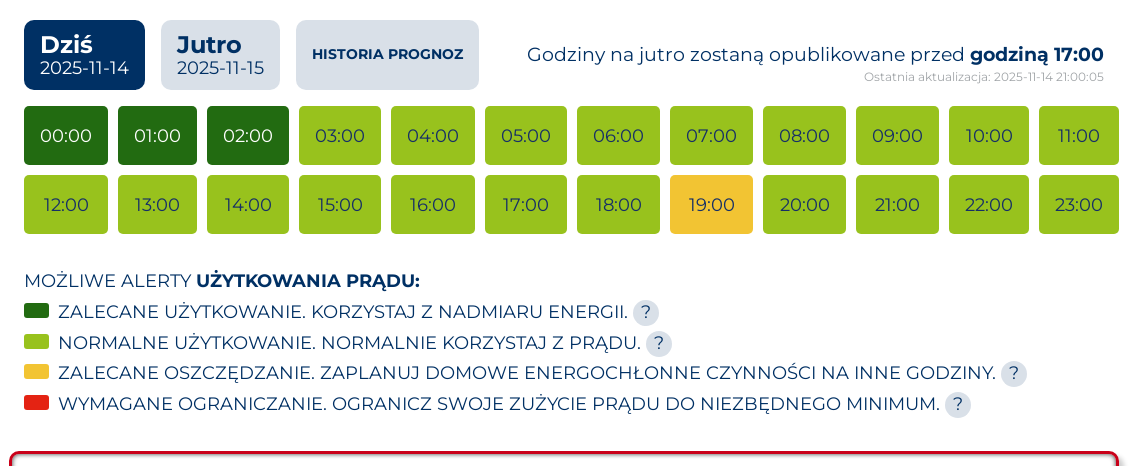
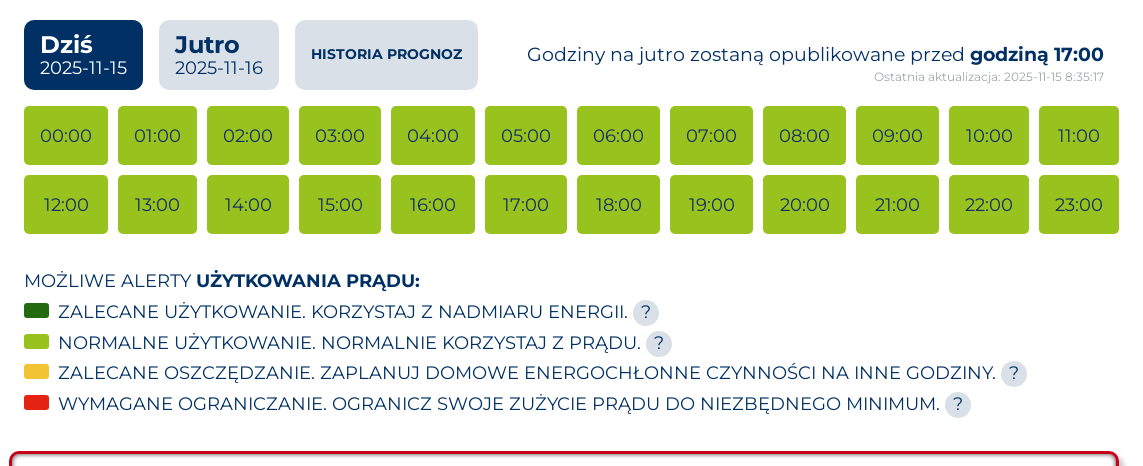
site: update 2025-11-15 08:35 UTC

diff --git a/site/ceny_rdn_dystr_today.html b/site/ceny_rdn_dystr_today.html
@@ -54,16 +54,16 @@
   </a>
 </div>
 
-<section class="hero"><div class="kicker">Dane</div><h1>Raporty — 2025-11-14 22:00:16</h1></section>
+<section class="hero"><div class="kicker">Dane</div><h1>Raporty — 2025-11-15 09:35:26</h1></section>
 
 <section class="content">
-  <h2>2025-11-14 — Sumaryczne ceny energii brutto (energia+dystrybucja)</h2>
+  <h2>2025-11-15 — Sumaryczne ceny energii brutto (energia+dystrybucja)</h2>
 
   <div class="legend">
-    <span class="chip"><span class="box a"></span>&nbsp;<strong>a</strong> avg: 0,539 PLN/kWh</span>
-    <span class="chip"><span class="box b"></span>&nbsp;<strong>b</strong> avg: 0,631 PLN/kWh</span>
-    <span class="chip"><span class="box c"></span>&nbsp;<strong>c</strong> avg: 0,762 PLN/kWh</span>
-    <span class="chip"><span class="box d"></span>&nbsp;<strong>d</strong> avg: 1,141 PLN/kWh</span>
+    <span class="chip"><span class="box a"></span>&nbsp;<strong>a</strong> avg: 0,637 PLN/kWh</span>
+    <span class="chip"><span class="box b"></span>&nbsp;<strong>b</strong> avg: 0,651 PLN/kWh</span>
+    <span class="chip"><span class="box c"></span>&nbsp;<strong>c</strong> avg: 0,691 PLN/kWh</span>
+    <span class="chip"><span class="box d"></span>&nbsp;<strong>d</strong> avg: 0,875 PLN/kWh</span>
   </div>
 
   <div class="table-wrap">
@@ -71,113 +71,113 @@
       <colgroup><col class="col-start"><col class="col-end"><col class="col-price"><col class="col-cat"></colgroup>
       <thead><tr><th>Start</th><th>Koniec</th><th>Cena [PLN/kWh]</th><th>Wsk.</th></tr></thead>
       <tbody>
-          <tr class="cat-a"><td>00:00</td><td>00:15</td><td>0,524</td><td>a</td></tr>
-          <tr class="cat-a"><td>00:15</td><td>00:30</td><td>0,506</td><td>a</td></tr>
-          <tr class="cat-a"><td>00:30</td><td>00:45</td><td>0,542</td><td>a</td></tr>
-          <tr class="cat-a"><td>00:45</td><td>01:00</td><td>0,538</td><td>a</td></tr>
-          <tr class="cat-a"><td>01:00</td><td>01:15</td><td>0,527</td><td>a</td></tr>
-          <tr class="cat-a"><td>01:15</td><td>01:30</td><td>0,506</td><td>a</td></tr>
-          <tr class="cat-a"><td>01:30</td><td>01:45</td><td>0,540</td><td>a</td></tr>
-          <tr class="cat-a"><td>01:45</td><td>02:00</td><td>0,522</td><td>a</td></tr>
-          <tr class="cat-a"><td>02:00</td><td>02:15</td><td>0,542</td><td>a</td></tr>
-          <tr class="cat-a"><td>02:15</td><td>02:30</td><td>0,535</td><td>a</td></tr>
-          <tr class="cat-a"><td>02:30</td><td>02:45</td><td>0,537</td><td>a</td></tr>
-          <tr class="cat-a"><td>02:45</td><td>03:00</td><td>0,498</td><td>a</td></tr>
-          <tr class="cat-a"><td>03:00</td><td>03:15</td><td>0,572</td><td>a</td></tr>
-          <tr class="cat-a"><td>03:15</td><td>03:30</td><td>0,570</td><td>a</td></tr>
-          <tr class="cat-a"><td>03:30</td><td>03:45</td><td>0,574</td><td>a</td></tr>
-          <tr class="cat-a"><td>03:45</td><td>04:00</td><td>0,586</td><td>a</td></tr>
-          <tr class="cat-b"><td>04:00</td><td>04:15</td><td>0,593</td><td>b</td></tr>
-          <tr class="cat-b"><td>04:15</td><td>04:30</td><td>0,593</td><td>b</td></tr>
-          <tr class="cat-b"><td>04:30</td><td>04:45</td><td>0,597</td><td>b</td></tr>
-          <tr class="cat-b"><td>04:45</td><td>05:00</td><td>0,606</td><td>b</td></tr>
-          <tr class="cat-b"><td>05:00</td><td>05:15</td><td>0,630</td><td>b</td></tr>
-          <tr class="cat-b"><td>05:15</td><td>05:30</td><td>0,638</td><td>b</td></tr>
-          <tr class="cat-b"><td>05:30</td><td>05:45</td><td>0,638</td><td>b</td></tr>
-          <tr class="cat-b"><td>05:45</td><td>06:00</td><td>0,638</td><td>b</td></tr>
-          <tr class="cat-c"><td>06:00</td><td>06:15</td><td>0,692</td><td>c</td></tr>
-          <tr class="cat-c"><td>06:15</td><td>06:30</td><td>0,725</td><td>c</td></tr>
-          <tr class="cat-c"><td>06:30</td><td>06:45</td><td>0,741</td><td>c</td></tr>
-          <tr class="cat-c"><td>06:45</td><td>07:00</td><td>0,752</td><td>c</td></tr>
-          <tr class="cat-c"><td>07:00</td><td>07:15</td><td>0,822</td><td>c</td></tr>
-          <tr class="cat-c"><td>07:15</td><td>07:30</td><td>0,834</td><td>c</td></tr>
-          <tr class="cat-c"><td>07:30</td><td>07:45</td><td>0,832</td><td>c</td></tr>
-          <tr class="cat-c"><td>07:45</td><td>08:00</td><td>0,834</td><td>c</td></tr>
-          <tr class="cat-c"><td>08:00</td><td>08:15</td><td>0,859</td><td>c</td></tr>
-          <tr class="cat-c"><td>08:15</td><td>08:30</td><td>0,828</td><td>c</td></tr>
-          <tr class="cat-c"><td>08:30</td><td>08:45</td><td>0,809</td><td>c</td></tr>
-          <tr class="cat-c"><td>08:45</td><td>09:00</td><td>0,782</td><td>c</td></tr>
-          <tr class="cat-c"><td>09:00</td><td>09:15</td><td>0,757</td><td>c</td></tr>
-          <tr class="cat-c"><td>09:15</td><td>09:30</td><td>0,734</td><td>c</td></tr>
-          <tr class="cat-c"><td>09:30</td><td>09:45</td><td>0,730</td><td>c</td></tr>
-          <tr class="cat-c"><td>09:45</td><td>10:00</td><td>0,707</td><td>c</td></tr>
-          <tr class="cat-c"><td>10:00</td><td>10:15</td><td>0,708</td><td>c</td></tr>
-          <tr class="cat-c"><td>10:15</td><td>10:30</td><td>0,694</td><td>c</td></tr>
-          <tr class="cat-c"><td>10:30</td><td>10:45</td><td>0,676</td><td>c</td></tr>
-          <tr class="cat-c"><td>10:45</td><td>11:00</td><td>0,671</td><td>c</td></tr>
-          <tr class="cat-c"><td>11:00</td><td>11:15</td><td>0,684</td><td>c</td></tr>
-          <tr class="cat-c"><td>11:15</td><td>11:30</td><td>0,676</td><td>c</td></tr>
-          <tr class="cat-c"><td>11:30</td><td>11:45</td><td>0,673</td><td>c</td></tr>
-          <tr class="cat-c"><td>11:45</td><td>12:00</td><td>0,667</td><td>c</td></tr>
-          <tr class="cat-c"><td>12:00</td><td>12:15</td><td>0,660</td><td>c</td></tr>
-          <tr class="cat-c"><td>12:15</td><td>12:30</td><td>0,657</td><td>c</td></tr>
-          <tr class="cat-b"><td>12:30</td><td>12:45</td><td>0,656</td><td>b</td></tr>
-          <tr class="cat-c"><td>12:45</td><td>13:00</td><td>0,668</td><td>c</td></tr>
-          <tr class="cat-c"><td>13:00</td><td>13:15</td><td>0,688</td><td>c</td></tr>
+          <tr class="cat-c"><td>00:00</td><td>00:15</td><td>0,671</td><td>c</td></tr>
+          <tr class="cat-c"><td>00:15</td><td>00:30</td><td>0,671</td><td>c</td></tr>
+          <tr class="cat-c"><td>00:30</td><td>00:45</td><td>0,668</td><td>c</td></tr>
+          <tr class="cat-c"><td>00:45</td><td>01:00</td><td>0,668</td><td>c</td></tr>
+          <tr class="cat-b"><td>01:00</td><td>01:15</td><td>0,652</td><td>b</td></tr>
+          <tr class="cat-b"><td>01:15</td><td>01:30</td><td>0,652</td><td>b</td></tr>
+          <tr class="cat-b"><td>01:30</td><td>01:45</td><td>0,652</td><td>b</td></tr>
+          <tr class="cat-a"><td>01:45</td><td>02:00</td><td>0,635</td><td>a</td></tr>
+          <tr class="cat-a"><td>02:00</td><td>02:15</td><td>0,640</td><td>a</td></tr>
+          <tr class="cat-a"><td>02:15</td><td>02:30</td><td>0,640</td><td>a</td></tr>
+          <tr class="cat-a"><td>02:30</td><td>02:45</td><td>0,639</td><td>a</td></tr>
+          <tr class="cat-a"><td>02:45</td><td>03:00</td><td>0,640</td><td>a</td></tr>
+          <tr class="cat-a"><td>03:00</td><td>03:15</td><td>0,643</td><td>a</td></tr>
+          <tr class="cat-a"><td>03:15</td><td>03:30</td><td>0,643</td><td>a</td></tr>
+          <tr class="cat-a"><td>03:30</td><td>03:45</td><td>0,643</td><td>a</td></tr>
+          <tr class="cat-b"><td>03:45</td><td>04:00</td><td>0,643</td><td>b</td></tr>
+          <tr class="cat-b"><td>04:00</td><td>04:15</td><td>0,651</td><td>b</td></tr>
+          <tr class="cat-b"><td>04:15</td><td>04:30</td><td>0,652</td><td>b</td></tr>
+          <tr class="cat-b"><td>04:30</td><td>04:45</td><td>0,652</td><td>b</td></tr>
+          <tr class="cat-b"><td>04:45</td><td>05:00</td><td>0,659</td><td>b</td></tr>
+          <tr class="cat-c"><td>05:00</td><td>05:15</td><td>0,678</td><td>c</td></tr>
+          <tr class="cat-c"><td>05:15</td><td>05:30</td><td>0,678</td><td>c</td></tr>
+          <tr class="cat-c"><td>05:30</td><td>05:45</td><td>0,678</td><td>c</td></tr>
+          <tr class="cat-c"><td>05:45</td><td>06:00</td><td>0,665</td><td>c</td></tr>
+          <tr class="cat-b"><td>06:00</td><td>06:15</td><td>0,649</td><td>b</td></tr>
+          <tr class="cat-b"><td>06:15</td><td>06:30</td><td>0,648</td><td>b</td></tr>
+          <tr class="cat-b"><td>06:30</td><td>06:45</td><td>0,649</td><td>b</td></tr>
+          <tr class="cat-b"><td>06:45</td><td>07:00</td><td>0,650</td><td>b</td></tr>
+          <tr class="cat-b"><td>07:00</td><td>07:15</td><td>0,650</td><td>b</td></tr>
+          <tr class="cat-b"><td>07:15</td><td>07:30</td><td>0,659</td><td>b</td></tr>
+          <tr class="cat-c"><td>07:30</td><td>07:45</td><td>0,659</td><td>c</td></tr>
+          <tr class="cat-b"><td>07:45</td><td>08:00</td><td>0,650</td><td>b</td></tr>
+          <tr class="cat-c"><td>08:00</td><td>08:15</td><td>0,672</td><td>c</td></tr>
+          <tr class="cat-c"><td>08:15</td><td>08:30</td><td>0,673</td><td>c</td></tr>
+          <tr class="cat-c"><td>08:30</td><td>08:45</td><td>0,673</td><td>c</td></tr>
+          <tr class="cat-c"><td>08:45</td><td>09:00</td><td>0,671</td><td>c</td></tr>
+          <tr class="cat-c"><td>09:00</td><td>09:15</td><td>0,675</td><td>c</td></tr>
+          <tr class="cat-c"><td>09:15</td><td>09:30</td><td>0,673</td><td>c</td></tr>
+          <tr class="cat-c"><td>09:30</td><td>09:45</td><td>0,673</td><td>c</td></tr>
+          <tr class="cat-c"><td>09:45</td><td>10:00</td><td>0,672</td><td>c</td></tr>
+          <tr class="cat-c"><td>10:00</td><td>10:15</td><td>0,694</td><td>c</td></tr>
+          <tr class="cat-c"><td>10:15</td><td>10:30</td><td>0,688</td><td>c</td></tr>
+          <tr class="cat-c"><td>10:30</td><td>10:45</td><td>0,699</td><td>c</td></tr>
+          <tr class="cat-c"><td>10:45</td><td>11:00</td><td>0,683</td><td>c</td></tr>
+          <tr class="cat-c"><td>11:00</td><td>11:15</td><td>0,677</td><td>c</td></tr>
+          <tr class="cat-c"><td>11:15</td><td>11:30</td><td>0,683</td><td>c</td></tr>
+          <tr class="cat-c"><td>11:30</td><td>11:45</td><td>0,683</td><td>c</td></tr>
+          <tr class="cat-c"><td>11:45</td><td>12:00</td><td>0,681</td><td>c</td></tr>
+          <tr class="cat-c"><td>12:00</td><td>12:15</td><td>0,675</td><td>c</td></tr>
+          <tr class="cat-c"><td>12:15</td><td>12:30</td><td>0,676</td><td>c</td></tr>
+          <tr class="cat-c"><td>12:30</td><td>12:45</td><td>0,682</td><td>c</td></tr>
+          <tr class="cat-c"><td>12:45</td><td>13:00</td><td>0,682</td><td>c</td></tr>
+          <tr class="cat-c"><td>13:00</td><td>13:15</td><td>0,703</td><td>c</td></tr>
           <tr class="cat-c"><td>13:15</td><td>13:30</td><td>0,702</td><td>c</td></tr>
-          <tr class="cat-c"><td>13:30</td><td>13:45</td><td>0,720</td><td>c</td></tr>
-          <tr class="cat-c"><td>13:45</td><td>14:00</td><td>0,708</td><td>c</td></tr>
-          <tr class="cat-c"><td>14:00</td><td>14:15</td><td>0,739</td><td>c</td></tr>
-          <tr class="cat-c"><td>14:15</td><td>14:30</td><td>0,777</td><td>c</td></tr>
-          <tr class="cat-c"><td>14:30</td><td>14:45</td><td>0,892</td><td>c</td></tr>
-          <tr class="cat-d"><td>14:45</td><td>15:00</td><td>0,986</td><td>d</td></tr>
-          <tr class="cat-c"><td>15:00</td><td>15:15</td><td>0,884</td><td>c</td></tr>
-          <tr class="cat-d"><td>15:15</td><td>15:30</td><td>0,976</td><td>d</td></tr>
-          <tr class="cat-d"><td>15:30</td><td>15:45</td><td>1,095</td><td>d</td></tr>
-          <tr class="cat-d"><td>15:45</td><td>16:00</td><td>1,077</td><td>d</td></tr>
-          <tr class="cat-d"><td>16:00</td><td>16:15</td><td>1,061</td><td>d</td></tr>
-          <tr class="cat-d"><td>16:15</td><td>16:30</td><td>1,105</td><td>d</td></tr>
-          <tr class="cat-d"><td>16:30</td><td>16:45</td><td>1,170</td><td>d</td></tr>
-          <tr class="cat-d"><td>16:45</td><td>17:00</td><td>1,210</td><td>d</td></tr>
-          <tr class="cat-d"><td>17:00</td><td>17:15</td><td>1,110</td><td>d</td></tr>
-          <tr class="cat-d"><td>17:15</td><td>17:30</td><td>1,104</td><td>d</td></tr>
-          <tr class="cat-d"><td>17:30</td><td>17:45</td><td>1,082</td><td>d</td></tr>
-          <tr class="cat-d"><td>17:45</td><td>18:00</td><td>1,057</td><td>d</td></tr>
-          <tr class="cat-c"><td>18:00</td><td>18:15</td><td>0,950</td><td>c</td></tr>
-          <tr class="cat-c"><td>18:15</td><td>18:30</td><td>0,964</td><td>c</td></tr>
-          <tr class="cat-c"><td>18:30</td><td>18:45</td><td>0,954</td><td>c</td></tr>
-          <tr class="cat-c"><td>18:45</td><td>19:00</td><td>0,906</td><td>c</td></tr>
-          <tr class="cat-d"><td>19:00</td><td>19:15</td><td>1,358</td><td>d</td></tr>
-          <tr class="cat-d"><td>19:15</td><td>19:30</td><td>1,310</td><td>d</td></tr>
-          <tr class="cat-d"><td>19:30</td><td>19:45</td><td>1,289</td><td>d</td></tr>
-          <tr class="cat-d"><td>19:45</td><td>20:00</td><td>1,268</td><td>d</td></tr>
-          <tr class="cat-c"><td>20:00</td><td>20:15</td><td>0,901</td><td>c</td></tr>
-          <tr class="cat-c"><td>20:15</td><td>20:30</td><td>0,866</td><td>c</td></tr>
-          <tr class="cat-c"><td>20:30</td><td>20:45</td><td>0,814</td><td>c</td></tr>
-          <tr class="cat-c"><td>20:45</td><td>21:00</td><td>0,775</td><td>c</td></tr>
-          <tr class="cat-c"><td>21:00</td><td>21:15</td><td>0,751</td><td>c</td></tr>
-          <tr class="cat-c"><td>21:15</td><td>21:30</td><td>0,667</td><td>c</td></tr>
-          <tr class="cat-b"><td>21:30</td><td>21:45</td><td>0,654</td><td>b</td></tr>
-          <tr class="cat-b"><td>21:45</td><td>22:00</td><td>0,628</td><td>b</td></tr>
-          <tr class="cat-c"><td>22:00</td><td>22:15</td><td>0,698</td><td>c</td></tr>
-          <tr class="cat-c"><td>22:15</td><td>22:30</td><td>0,692</td><td>c</td></tr>
-          <tr class="cat-c"><td>22:30</td><td>22:45</td><td>0,679</td><td>c</td></tr>
-          <tr class="cat-b"><td>22:45</td><td>23:00</td><td>0,656</td><td>b</td></tr>
-          <tr class="cat-b"><td>23:00</td><td>23:15</td><td>0,641</td><td>b</td></tr>
-          <tr class="cat-b"><td>23:15</td><td>23:30</td><td>0,640</td><td>b</td></tr>
-          <tr class="cat-b"><td>23:30</td><td>23:45</td><td>0,641</td><td>b</td></tr>
-          <tr class="cat-b"><td>23:45</td><td>00:00</td><td>0,640</td><td>b</td></tr>
+          <tr class="cat-c"><td>13:30</td><td>13:45</td><td>0,703</td><td>c</td></tr>
+          <tr class="cat-c"><td>13:45</td><td>14:00</td><td>0,693</td><td>c</td></tr>
+          <tr class="cat-c"><td>14:00</td><td>14:15</td><td>0,748</td><td>c</td></tr>
+          <tr class="cat-c"><td>14:15</td><td>14:30</td><td>0,771</td><td>c</td></tr>
+          <tr class="cat-d"><td>14:30</td><td>14:45</td><td>0,842</td><td>d</td></tr>
+          <tr class="cat-d"><td>14:45</td><td>15:00</td><td>0,891</td><td>d</td></tr>
+          <tr class="cat-d"><td>15:00</td><td>15:15</td><td>0,858</td><td>d</td></tr>
+          <tr class="cat-d"><td>15:15</td><td>15:30</td><td>0,907</td><td>d</td></tr>
+          <tr class="cat-d"><td>15:30</td><td>15:45</td><td>0,993</td><td>d</td></tr>
+          <tr class="cat-d"><td>15:45</td><td>16:00</td><td>0,961</td><td>d</td></tr>
+          <tr class="cat-d"><td>16:00</td><td>16:15</td><td>0,894</td><td>d</td></tr>
+          <tr class="cat-d"><td>16:15</td><td>16:30</td><td>0,939</td><td>d</td></tr>
+          <tr class="cat-d"><td>16:30</td><td>16:45</td><td>0,954</td><td>d</td></tr>
+          <tr class="cat-d"><td>16:45</td><td>17:00</td><td>0,949</td><td>d</td></tr>
+          <tr class="cat-d"><td>17:00</td><td>17:15</td><td>0,825</td><td>d</td></tr>
+          <tr class="cat-d"><td>17:15</td><td>17:30</td><td>0,815</td><td>d</td></tr>
+          <tr class="cat-d"><td>17:30</td><td>17:45</td><td>0,809</td><td>d</td></tr>
+          <tr class="cat-d"><td>17:45</td><td>18:00</td><td>0,799</td><td>d</td></tr>
+          <tr class="cat-d"><td>18:00</td><td>18:15</td><td>0,791</td><td>d</td></tr>
+          <tr class="cat-d"><td>18:15</td><td>18:30</td><td>0,775</td><td>d</td></tr>
+          <tr class="cat-c"><td>18:30</td><td>18:45</td><td>0,764</td><td>c</td></tr>
+          <tr class="cat-c"><td>18:45</td><td>19:00</td><td>0,747</td><td>c</td></tr>
+          <tr class="cat-c"><td>19:00</td><td>19:15</td><td>0,736</td><td>c</td></tr>
+          <tr class="cat-c"><td>19:15</td><td>19:30</td><td>0,730</td><td>c</td></tr>
+          <tr class="cat-c"><td>19:30</td><td>19:45</td><td>0,726</td><td>c</td></tr>
+          <tr class="cat-c"><td>19:45</td><td>20:00</td><td>0,713</td><td>c</td></tr>
+          <tr class="cat-c"><td>20:00</td><td>20:15</td><td>0,709</td><td>c</td></tr>
+          <tr class="cat-c"><td>20:15</td><td>20:30</td><td>0,719</td><td>c</td></tr>
+          <tr class="cat-c"><td>20:30</td><td>20:45</td><td>0,695</td><td>c</td></tr>
+          <tr class="cat-c"><td>20:45</td><td>21:00</td><td>0,686</td><td>c</td></tr>
+          <tr class="cat-c"><td>21:00</td><td>21:15</td><td>0,666</td><td>c</td></tr>
+          <tr class="cat-c"><td>21:15</td><td>21:30</td><td>0,665</td><td>c</td></tr>
+          <tr class="cat-c"><td>21:30</td><td>21:45</td><td>0,663</td><td>c</td></tr>
+          <tr class="cat-b"><td>21:45</td><td>22:00</td><td>0,655</td><td>b</td></tr>
+          <tr class="cat-a"><td>22:00</td><td>22:15</td><td>0,641</td><td>a</td></tr>
+          <tr class="cat-a"><td>22:15</td><td>22:30</td><td>0,640</td><td>a</td></tr>
+          <tr class="cat-a"><td>22:30</td><td>22:45</td><td>0,638</td><td>a</td></tr>
+          <tr class="cat-a"><td>22:45</td><td>23:00</td><td>0,634</td><td>a</td></tr>
+          <tr class="cat-a"><td>23:00</td><td>23:15</td><td>0,634</td><td>a</td></tr>
+          <tr class="cat-a"><td>23:15</td><td>23:30</td><td>0,633</td><td>a</td></tr>
+          <tr class="cat-a"><td>23:30</td><td>23:45</td><td>0,630</td><td>a</td></tr>
+          <tr class="cat-a"><td>23:45</td><td>00:00</td><td>0,618</td><td>a</td></tr>
       </tbody>
     </table>
   </div>
 
   <p class="muted">Źródło tabeli: <code>total_PLN_kWh</code> i wskaźniki a/b/c/d z najnowszego pliku <em>ceny_06_preferowane_uzywanie_YYMMDD.csv</em>.</p>
 
-  <h2>Ceny energii elektrycznej netto (bez dystrybucji i bez VAT) — dzień 2025-11-14</h2>
-  <div class="chart"><img class="small" src="assets/img/rce_plot_2025-11-14_today.png" alt="RCE today — 2025-11-14"><p class="muted">Wykres: assets/img/rce_plot_2025-11-14_today.png</p></div>
-
   <h2>Ceny energii elektrycznej netto (bez dystrybucji i bez VAT) — dzień 2025-11-15</h2>
-  <div class="chart"><img class="small" src="assets/img/rce_plot_2025-11-15_tomorrow.png" alt="RCE tomorrow — 2025-11-15"><p class="muted">Wykres: assets/img/rce_plot_2025-11-15_tomorrow.png</p></div>
+  <div class="chart"><img class="small" src="assets/img/rce_plot_2025-11-14_today.png" alt="RCE today — 2025-11-15"><p class="muted">Wykres: assets/img/rce_plot_2025-11-14_today.png (fallback)</p></div>
+
+  <h2>Ceny energii elektrycznej netto (bez dystrybucji i bez VAT) — dzień 2025-11-16</h2>
+  <div class="chart"><img class="small" src="assets/img/rce_plot_2025-11-15_tomorrow.png" alt="RCE tomorrow — 2025-11-16"><p class="muted">Wykres: assets/img/rce_plot_2025-11-15_tomorrow.png</p></div>
 
   <h2>Kompas energetyczny PSE</h2>
   <div class="chart"><img src="assets/img/kompas_today.png" alt="Kompas energetyczny PSE — today"><p class="muted">Obraz: assets/img/kompas_today.png</p></div>

diff --git a/site/zestawienie.html b/site/zestawienie.html
@@ -55,28 +55,28 @@
 
 <section class="hero">
   <div class="kicker">Raport ze stanu teraz</div>
-  <h1>Odczyt dokonany w dniu 14.11.2025 o godzinie 22.02</h1>
+  <h1>Odczyt dokonany w dniu 15.11.2025 o godzinie 09.35</h1>
 </section>
 
 <section class="content">
-  <p>Słońce wstało o 06:52 i zaszło o 15:59 (dzień trwał <span class="value">9 h 07 min</span>).</p>
+  <p>Słońce wstało o 06:53 i zaszło o 15:58 (dzień trwał <span class="value">9 h 05 min</span>).</p>
 
-  <p>Dzisiaj zużyliśmy <span class="value">4,80 kWh</span>
-     (z sieci pobraliśmy <span class="value">2,10 kWh</span>).</p>
+  <p>Dzisiaj zużyliśmy <span class="value">13,30 kWh</span>
+     (z sieci pobraliśmy <span class="value">13,30 kWh</span>).</p>
 
-  <p>Instalacja wyprodukowała <span class="value">3,10 kWh</span>
-     (od zainstalowania <span class="value">248,20 kWh</span>).</p>
+  <p>Instalacja wyprodukowała <span class="value">0,30 kWh</span>
+     (od zainstalowania <span class="value">248,50 kWh</span>).</p>
 
   <p>W tej chwili nasza instalacja produkuje <span class="value">0 W</span>,
-     a z sieci pobieramy <span class="value">502 W</span>.</p>
+     a z sieci pobieramy <span class="value">278 W</span>.</p>
 
-  <p>Bateria jest naładowana do <span class="value">84 %</span>
+  <p>Bateria jest naładowana do <span class="value">87 %</span>
      (i obecna jej aktywność to <strong>Standby</strong>;
-     dzisiaj pobraliśmy z niej <span class="value">3,60 kWh</span>,
-     a dostarczyliśmy jej energii <span class="value">0,80 kWh</span>).</p>
+     dzisiaj pobraliśmy z niej <span class="value">0,00 kWh</span>,
+     a dostarczyliśmy jej energii <span class="value">0,00 kWh</span>).</p>
 
   <p>A od zainstalowania solarów zużyliśmy w sumie:
-     <span class="value">772,70 kWh</span>.</p>
+     <span class="value">800,60 kWh</span>.</p>
 </section>
 
 <section class="content good-news-wrapper">
